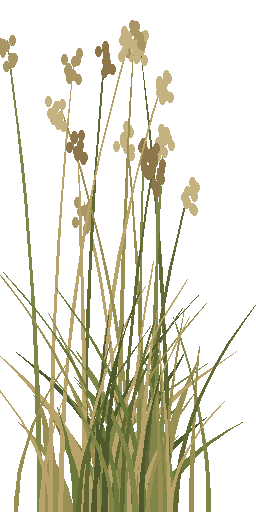
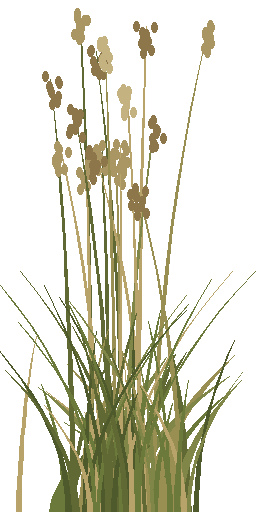
S1: a trimmed yard with dirt roads; weeds only along the back; live plates centred, with the messages glow
- Ground: trimmed lawn (lawn.webp, tileable, from tools/textures/vegetation.py)
  with dirt roads worn through it — the drive the truck is parked on, along
  its length, and a back lane carrying the forklift and the stock. Textures
  are tiled in world metres so the grain matches across strips; roads are
  angled strips, and placement tests in each road's own frame.
- Vegetation: tall weeds only along the back (foot of the shop wall and the
  fence beside it); the scattered and foreground tufts are gone, leaving a
  sparse fringe of uncut grass where lawn meets road.
- Plates: the live column is a vertically centred stack inset from the
  left, the taped row centred over the right; gaps one step up (32 / 24px,
  12px on a phone). Live plates carry the messages panel's glow — the same
  token expression (action red at 22% over --space-8); hover raises the
  plate and deepens it to 34% rather than dropping it.
- scene-still.webp re-rendered.

Verified: guard:all 526/526, test:ui 335/335, surfaces:check, typecheck,
lint, build:pages; rendered at 1440 and 390.

Claude-Session: https://claude.ai/code/session_01QEvwLhGyfggKQ74V2PfZd1

diff --git a/apps/s1-marketing/src/scene.ts b/apps/s1-marketing/src/scene.ts
@@ -13,6 +13,8 @@ import { mergeGeometries } from "three/addons/utils/BufferGeometryUtils.js";
 
 /** The truck's heading: a low front three-quarter, nose to the left, the lettered side to the camera. */
 const HEADING = -2.25;
+/** The drive runs along the truck's length, which lies on the model's local z. */
+const ROAD_TURN = Math.PI / 2;
 /** The truck is the subject, so it is drawn larger than the floor around it is to scale. */
 const TRUCK_SCALE = 2.8;
 /** The bay the truck stands in, in metres: its cones stand on these corners. */
@@ -26,8 +28,8 @@ const STOCK: readonly (readonly [string, number, number, number])[] = [
 const FLAT_BELOW_PX = 720;
 
 /**
- * THE SIGN-IN YARD — the outdoor service yard on packed dirt, seen low and
- * close: Unit TACLA-14402C parked on the dirt, right of centre in a front
+ * THE SIGN-IN YARD — the outdoor service yard, trimmed lawn with dirt roads
+ * worn through it, seen low and close: Unit TACLA-14402C parked on the dirt, right of centre in a front
  * three-quarter, with the live portals' plates standing large down the left
  * (CSS, in front of the canvas) and the ones not open yet small and far, high
  * on the right. Behind the bay the stock waiting to go out — residential condensers on
@@ -48,12 +50,12 @@ const FLAT_BELOW_PX = 720;
  * and sky from the page ground — so no colour literal
  * enters the surface. The truck, condensers and RTUs are assets
  * (public/truck.glb, condenser.glb, rtu.glb) and wear their own paint; the
- * grass and weeds are alpha textures (public/grass.webp, weeds.webp, drawn by
- * tools/textures/vegetation.py) on crossed planes, so their colour is the
- * asset's too. The models ship meshopt-compressed (`gltf-transform optimize --compress meshopt
+ * lawn, the roadside grass and the fence-line weeds are textures too
+ * (public/lawn.webp, grass.webp, weeds.webp, drawn by
+ * tools/textures/vegetation.py), so their colour is the asset's. The models ship meshopt-compressed (`gltf-transform optimize --compress meshopt
  * --texture-compress false --simplify false`, textures lossless WebP first) — a
- * raw exporter GLB is ~8x the bytes and ~10x the draw calls; the
- * ground is one too (public/dirt.webp), so its earth is the texture's, not an ink.
+ * raw exporter GLB is ~8x the bytes and ~10x the draw calls. The roads' earth is
+ * a texture as well (public/dirt.webp), not an ink.
  *
  * `[data-live]` goes on the scene root at the truck's first frame; until then,
  * and where WebGL is unavailable, the still poster and the CSS ring stand in.
@@ -111,24 +113,47 @@ export const mountScene = (canvas: HTMLCanvasElement): (() => void) => {
   fill.position.set(-18, 12, -16);
   scene.add(fill);
 
-  // --- The yard: packed dirt (public/dirt.webp, tiled every 8 m; the hard border stands in until it
-  // arrives).
-  const dirt = mat("border-hard", 1);
-  const yard = new Mesh(new PlaneGeometry(260, 260), dirt);
-  yard.rotation.x = -Math.PI / 2;
-  yard.receiveShadow = true;
-  scene.add(yard);
-  void new TextureLoader().loadAsync("/dirt.webp").then((map) => {
-    if (stopped) return;
-    map.wrapS = map.wrapT = RepeatWrapping;
-    map.repeat.set(32, 32);
-    map.colorSpace = SRGBColorSpace;
-    map.anisotropy = renderer.capabilities.getMaxAnisotropy();
-    dirt.map = map;
-    dirt.color.setScalar(1);
-    dirt.needsUpdate = true;
-    if (still && loaded) draw();
-  }, () => { /* no texture: the ground stays in the hard border */ });
+  // --- The yard: trimmed lawn (public/lawn.webp), with dirt roads (public/dirt.webp) worn through it.
+  // Each texture is tiled in world metres, so the grain matches across every strip; the hard border
+  // and the sunken well stand in until they arrive.
+  const surfaceOf = (url: string, every: number, fallback: string): MeshStandardMaterial => {
+    const m = mat(fallback, 1);
+    void new TextureLoader().loadAsync(url).then((map) => {
+      if (stopped) return;
+      map.wrapS = map.wrapT = RepeatWrapping;
+      map.repeat.set(1 / every, 1 / every);
+      map.colorSpace = SRGBColorSpace;
+      map.anisotropy = renderer.capabilities.getMaxAnisotropy();
+      m.map = map;
+      m.color.setScalar(1);
+      m.needsUpdate = true;
+      if (still && loaded) draw();
+    }, () => { /* no texture: the ground stays in its role */ });
+    return m;
+  };
+  const lay = (w: number, d: number, x: number, z: number, y: number, m: MeshStandardMaterial, heading = 0): void => {
+    const g = new PlaneGeometry(w, d);
+    // World-space UVs: one unit of UV per metre, offset by the strip's position.
+    const uv = g.attributes.uv!, pos = g.attributes.position!;
+    for (let i = 0; i < uv.count; i++) uv.setXY(i, pos.getX(i) + x, pos.getY(i) - z);
+    const p = new Mesh(g, m);
+    p.rotation.set(-Math.PI / 2, 0, heading);
+    p.position.set(x, y, z);
+    p.receiveShadow = true;
+    scene.add(p);
+  };
+  lay(260, 260, 0, 0, 0, surfaceOf("/lawn.webp", 6, "border-hard"));
+  const dirt = surfaceOf("/dirt.webp", 8, "surface-sunken");
+  /** The roads, [width, length, x, z, heading]: the drive the truck is parked on, along its length, and the back lane the forklift and the stock use. */
+  const ROADS: readonly (readonly [number, number, number, number, number])[] = [
+    [11, 130, 0, 0, HEADING + ROAD_TURN], [78, 9, -2, -23, 0],
+  ];
+  ROADS.forEach(([w, d, x, z, a], i) => lay(w, d, x, z, 0.004 + i * 0.002, dirt, a));
+  /** World (x, z) to a road's own (across, along), and back. */
+  const toRoad = ([, , rx, rz, a]: (typeof ROADS)[number], x: number, z: number): readonly [number, number] =>
+    [(x - rx) * Math.cos(a) - (z - rz) * Math.sin(a), (x - rx) * Math.sin(a) + (z - rz) * Math.cos(a)];
+  const fromRoad = ([, , rx, rz, a]: (typeof ROADS)[number], u: number, v: number): readonly [number, number] =>
+    [rx + u * Math.cos(a) + v * Math.sin(a), rz - u * Math.sin(a) + v * Math.cos(a)];
   const stripe = mat("surface", 0.8);
   const kerb = mat("border-hard");
   const bx = BAY_X, bz = BAY_Z;
@@ -308,16 +333,16 @@ export const mountScene = (canvas: HTMLCanvasElement): (() => void) => {
   const SHUTTLE_FROM = SHUTTLE_MS * 0.4;
   shuttle(SHUTTLE_FROM);
 
-  // Grass and tall weeds: crossed planes, one instanced draw per texture, placed by a seeded walk
-  // so every load (and the poster) grows the same yard. Thick along the shop wall and the fence,
-  // sparse in the open, a few tall ones in the foreground for the depth of field to soften.
+  // Tall weeds along the back — the foot of the shop wall and the fence beside it — and a fringe of uncut grass where the lawn
+  // meets a road: crossed planes, one instanced draw per texture, placed by a seeded walk so every
+  // load (and the poster) grows the same yard.
   let seed = 14402;
   const rand = (): number => { seed = (seed * 1664525 + 1013904223) >>> 0; return seed / 2 ** 32; };
   const KEEP_CLEAR: readonly (readonly [number, number, number])[] = [
     [0, 0, 11], [-27.5, -23.5, 6], [23, -24, 7], [26.5, -8, 3], [26, 4, 2.5], [-14, -30.5, 3], [13, -27, 2.5], [-31, -26, 2],
   ];
-  const clear = (x: number, z: number): boolean =>
-    !(z > -25 && z < -18 && x > -24 && x < -4) && KEEP_CLEAR.every(([cx, cz, r]) => Math.hypot(x - cx, z - cz) > r);
+  const onRoad = (x: number, z: number): boolean => ROADS.some((r) => { const [u, v] = toRoad(r, x, z); return Math.abs(u) < r[0] / 2 && Math.abs(v) < r[1] / 2; });
+  const clear = (x: number, z: number): boolean => !onRoad(x, z) && KEEP_CLEAR.every(([cx, cz, r]) => Math.hypot(x - cx, z - cz) > r);
   const scatter = (n: number, zone: () => readonly [number, number]): (readonly [number, number])[] => {
     const out: (readonly [number, number])[] = [];
     for (let tries = 0; out.length < n && tries < n * 20; tries++) {
@@ -326,8 +351,13 @@ export const mountScene = (canvas: HTMLCanvasElement): (() => void) => {
     }
     return out;
   };
-  const along = (x0: number, x1: number, z: number, spread: number) => (): readonly [number, number] => [x0 + rand() * (x1 - x0), z + (rand() - 0.5) * spread];
-  const open = (): readonly [number, number] => [(rand() - 0.5) * 80, -32 + rand() * 62];
+  /** A point just off one edge of a road, on the grass side. */
+  const roadside = (): readonly [number, number] => {
+    const r = ROADS[Math.floor(rand() * ROADS.length)]!;
+    return fromRoad(r, (rand() < 0.5 ? -1 : 1) * (r[0] / 2 + 0.3 + rand() * 0.9), (rand() - 0.5) * r[1]);
+  };
+  const back = (): readonly [number, number] => [(rand() - 0.5) * 90, fenceBack - 1 + rand() * 3];
+  const fence = (side: number) => (): readonly [number, number] => [side * (fenceX - 0.8 - rand() * 2.6), fenceBack + rand() * 20];
   const tufts = new PlaneGeometry(1, 1).translate(0, 0.5, 0);
   const crossed = mergeGeometries([tufts, tufts.clone().rotateY(Math.PI / 2)]);
   const plant = (url: string, spots: readonly (readonly [number, number])[], height: () => number): void => {
@@ -344,20 +374,10 @@ export const mountScene = (canvas: HTMLCanvasElement): (() => void) => {
       m.receiveShadow = true;
       scene.add(m);
       if (still && loaded) draw();
-    }, () => { /* no texture: the yard is bare dirt */ });
+    }, () => { /* no texture: no vegetation */ });
   };
-  plant("/grass.webp", [
-    ...scatter(140, along(-45, 45, shopZ + 8.5, 3)),
-    ...scatter(60, () => [-fenceX + 1 + rand() * 2, -32 + rand() * 62]),
-    ...scatter(60, () => [fenceX - 1 - rand() * 2, -32 + rand() * 62]),
-    ...scatter(110, open),
-  ], () => 0.9 + rand() * 1.1);
-  plant("/weeds.webp", [
-    ...scatter(55, along(-45, 45, shopZ + 8, 2)),
-    ...scatter(18, () => [-fenceX + 1 + rand() * 3, -32 + rand() * 62]),
-    ...scatter(18, () => [fenceX - 1 - rand() * 3, -32 + rand() * 62]),
-    ...scatter(10, () => [(rand() < 0.5 ? -1 : 1) * (14 + rand() * 18), 16 + rand() * 14]),
-  ], () => 2.6 + rand() * 2.2);
+  plant("/grass.webp", scatter(170, roadside), () => 0.5 + rand() * 0.5);
+  plant("/weeds.webp", [...scatter(70, back), ...scatter(20, fence(-1)), ...scatter(20, fence(1))], () => 2.6 + rand() * 2.2);
 
   for (const [url, x, z, heading] of STOCK) {
     void load(url).then((model) => {

diff --git a/apps/s1-marketing/src/styles.ts b/apps/s1-marketing/src/styles.ts
@@ -48,10 +48,11 @@ export const S1_CSS = `
 .s1-scene__stage canvas{display:block;width:100%;height:100%}
 /* The yard's composition: the live portals stand large in front, a column down the left; the ones not open yet sit small and far, high on the right. */
 .s1-scene__plates{position:absolute;margin:0;padding:0;list-style:none;display:flex;gap:var(--space-3)}
-.s1-scene__plates--live{top:var(--space-6);bottom:var(--space-6);left:var(--space-6);width:34%;flex-direction:column;justify-content:space-between}
-.s1-scene__plates--closed{top:var(--space-6);left:47%;right:var(--space-6);justify-content:space-between}
+.s1-scene__plates--live{top:50%;left:5%;width:32%;transform:translateY(-50%);flex-direction:column;gap:var(--space-8)}
+.s1-scene__plates--closed{top:var(--space-8);left:44%;right:5%;justify-content:center;gap:var(--space-6)}
 .s1-scene__plates--closed .s1-scene__plate{flex:1 1 0;min-width:0}
-.s1-scene__plates--live .s1-portal{min-height:calc(3 * var(--control-height));padding:var(--space-3) var(--space-6);text-align:left;align-items:flex-start;box-shadow:var(--elevation-raised)}
+/* The live plates carry the messages panel's glow — the action red at 22%, so they read as the ones that open. */
+.s1-scene__plates--live .s1-portal{min-height:calc(3 * var(--control-height));padding:var(--space-3) var(--space-6);text-align:left;align-items:flex-start;box-shadow:var(--elevation-card),0 0 var(--space-8) color-mix(in srgb,var(--color-action) 22%,transparent)}
 .s1-scene__plates--live .s1-portal strong{font-size:var(--text-xl)}
 .s1-scene__plates--live .s1-portal span{font-size:var(--text-md)}
 .s1-scene__plates--closed .s1-portal strong{font-size:var(--text-xs)}
@@ -60,6 +61,7 @@ export const S1_CSS = `
 .s1-portal span{color:var(--color-text-muted);font-size:var(--text-xs)}
 .s1-portal:hover{border-color:var(--color-border-hard);box-shadow:var(--elevation-raised)}
 .s1-portal:hover strong{text-decoration:underline}
+.s1-scene__plates--live .s1-portal:hover{box-shadow:var(--elevation-raised),0 0 var(--space-8) color-mix(in srgb,var(--color-action) 34%,transparent)}
 @container (min-width:56rem){
   .s1-scene__plates--live .s1-portal strong{font-size:var(--text-display)}
   .s1-scene__plates--live .s1-portal span{font-size:var(--text-lg)}
@@ -67,7 +69,7 @@ export const S1_CSS = `
 }
 @container (max-width:45rem){
   .s1-scene__stage{aspect-ratio:4/3}
-  .s1-scene__plates,.s1-scene__plates--live,.s1-scene__plates--closed{position:static;width:auto;display:grid;grid-template-columns:1fr 1fr;gap:var(--space-2);padding:var(--space-3) var(--space-3) 0}
+  .s1-scene__plates,.s1-scene__plates--live,.s1-scene__plates--closed{position:static;width:auto;transform:none;display:grid;grid-template-columns:1fr 1fr;gap:var(--space-3);padding:var(--space-3) var(--space-3) 0}
   .s1-scene__plates--closed{padding-bottom:var(--space-3)}
   .s1-scene__plates--live .s1-portal{min-height:var(--control-height);padding:var(--space-2) var(--space-3)}
   .s1-scene__plates--live .s1-portal strong{font-size:var(--text-md)}

diff --git a/tools/textures/vegetation.py b/tools/textures/vegetation.py
@@ -1,7 +1,9 @@
 #!/usr/bin/env python3
-"""S1's yard vegetation: two alpha textures drawn as crossed planes by apps/s1-marketing/src/scene.ts.
+"""S1's yard vegetation for apps/s1-marketing/src/scene.ts: the trimmed lawn the yard is laid
+in (tileable, opaque), and two alpha textures drawn as crossed planes — a grass tuft for the
+road edges and tall weeds for the fence line.
 
-    python3 tools/textures/vegetation.py   # writes apps/s1-marketing/public/{grass,weeds}.webp
+    python3 tools/textures/vegetation.py   # writes apps/s1-marketing/public/{lawn,grass,weeds}.webp
 
 Like dirt.webp, the vegetation's colour is the asset's, not an ink: a dry
 Texas yard — olive, sage and straw — never a lawn green, which would sit on the
@@ -15,6 +17,7 @@ from PIL import Image, ImageDraw
 
 OUT = Path(__file__).resolve().parents[2] / "apps/s1-marketing/public"
 BLADE = [(78, 90, 43), (107, 122, 58), (128, 134, 72), (154, 143, 82), (184, 164, 106), (96, 104, 52)]
+LAWN = [(86, 100, 50), (98, 112, 56), (110, 122, 62), (78, 92, 46), (122, 128, 70), (104, 110, 60)]
 SEED_HEAD = [(170, 150, 98), (140, 118, 74), (196, 178, 128)]
 
 
@@ -39,6 +42,23 @@ def grass(rng):
     for _ in range(90):
         x0 = w / 2 + rng.gauss(0, w * 0.17)
         blade(d, rng, x0, h, rng.uniform(0.45, 0.95) * h, rng.uniform(5, 10), rng.uniform(-0.45, 0.45), rng.choice(BLADE))
+    return im
+
+
+def lawn(rng):
+    """Mown grass seen from above: short strokes on an olive ground, drawn wrapped so it tiles."""
+    n = 512
+    im = Image.new("RGB", (n, n), LAWN[0])
+    d = ImageDraw.Draw(im)
+    for _ in range(26000):
+        x, y = rng.uniform(0, n), rng.uniform(0, n)
+        a = rng.uniform(-math.pi, math.pi)
+        r = rng.uniform(1.5, 4.5)
+        dx, dy = math.cos(a) * r, math.sin(a) * r
+        colour = rng.choice(LAWN)
+        for ox in (-n, 0, n):
+            for oy in (-n, 0, n):
+                d.line((x + ox, y + oy, x + ox + dx, y + oy + dy), fill=colour, width=2)
     return im
 
 
@@ -74,5 +94,6 @@ def weeds(rng):
 if __name__ == "__main__":
     rng = random.Random(14402)
     grass(rng).save(OUT / "grass.webp", "WEBP", lossless=True)
+    lawn(rng).save(OUT / "lawn.webp", "WEBP", quality=82)
     weeds(rng).save(OUT / "weeds.webp", "WEBP", lossless=True)
-    print("vegetation: grass.webp, weeds.webp")
+    print("vegetation: lawn.webp, grass.webp, weeds.webp")
